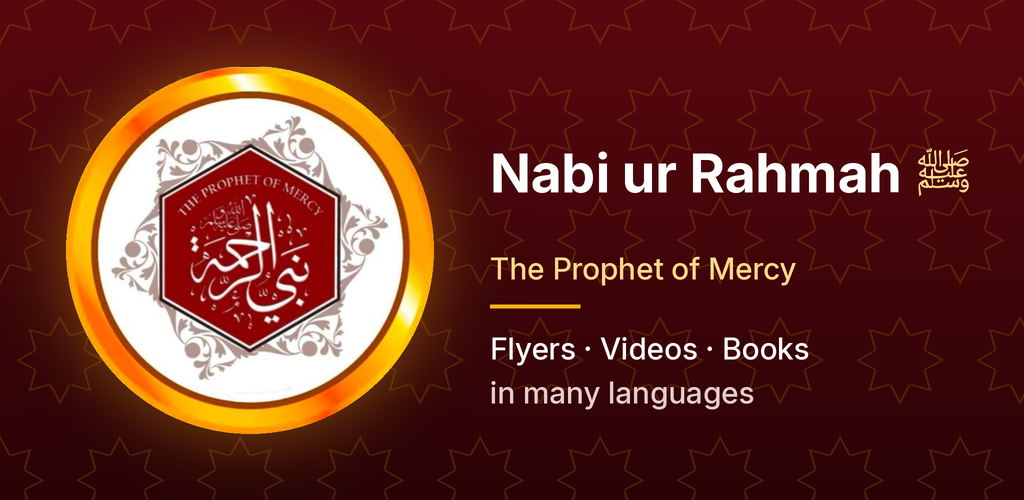
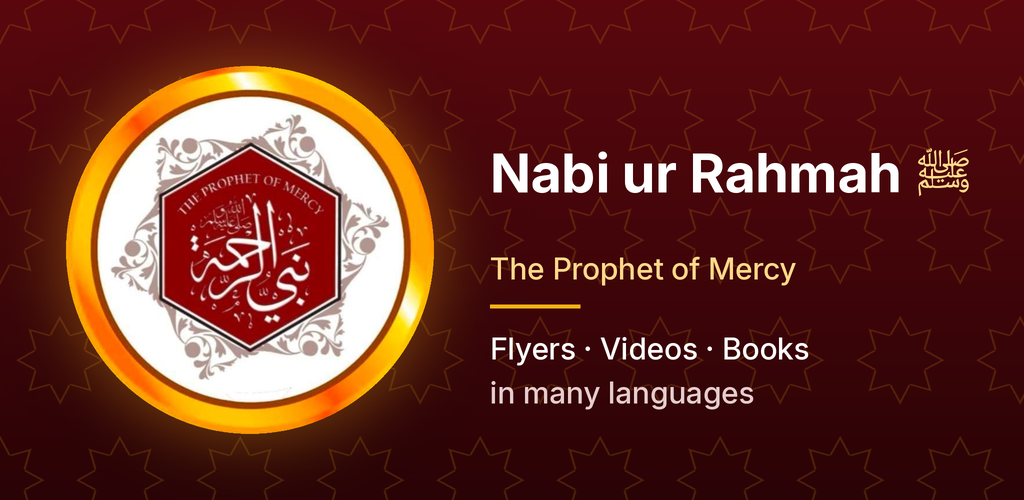
Sharper emblem, safer book downloads, upright Shorts everywhere
- The Nabi ur Rahmah emblem is now 637 px (was 384), cut into a clean
  circle without the dark strip along its top edge; the Play icon and
  feature graphic are redrawn from it.
- A book download that stops early, or returns something other than a
  PDF, is discarded and can be retried, instead of being kept as a book
  that never opens.
- Shorts keep their upright shape in the floating window and in full
  screen, instead of a narrow letterboxed strip.

Claude-Session: https://claude.ai/code/session_01Jd4Wban1LcRuPzEVww8pUp

diff --git a/mobile_app/NabiUrRahmahApp/app/src/main/kotlin/org/darulhuda/nabiurrahmah/ui/videos/VideoScreen.kt b/mobile_app/NabiUrRahmahApp/app/src/main/kotlin/org/darulhuda/nabiurrahmah/ui/videos/VideoScreen.kt
@@ -39,6 +39,7 @@ import androidx.compose.material3.Text
 import androidx.compose.material3.TopAppBar
 import androidx.compose.runtime.Composable
 import androidx.compose.runtime.DisposableEffect
+import androidx.compose.runtime.SideEffect
 import androidx.compose.runtime.getValue
 import androidx.compose.runtime.mutableStateOf
 import androidx.compose.runtime.remember
@@ -91,6 +92,8 @@ fun VideoScreen(
         pictureInPicture.wanted = true
         onDispose { pictureInPicture.wanted = false }
     }
+    val portrait = current?.isShort == true
+    SideEffect { pictureInPicture.portrait = portrait }
     val compact = pictureInPicture.active
 
     Box(Modifier.fillMaxSize()) {
@@ -135,7 +138,7 @@ fun VideoScreen(
         }
 
         fullscreen?.let { session ->
-            FullscreenVideo(session, Modifier.zIndex(1f))
+            FullscreenVideo(session, portrait = portrait, modifier = Modifier.zIndex(1f))
         }
     }
 }
@@ -252,13 +255,14 @@ private fun EmbedBlocked(onWatch: () -> Unit) {
     }
 }
 
-/** Landscape, edge to edge, system bars hidden; back leaves full screen first. */
+/** Edge to edge with system bars hidden: landscape for wide videos, upright for Shorts. Back leaves full screen first. */
 @Composable
-private fun FullscreenVideo(session: FullscreenSession, modifier: Modifier = Modifier) {
+private fun FullscreenVideo(session: FullscreenSession, portrait: Boolean, modifier: Modifier = Modifier) {
     val activity = LocalActivity.current
-    DisposableEffect(activity) {
+    DisposableEffect(activity, portrait) {
         val previous = activity?.requestedOrientation ?: ActivityInfo.SCREEN_ORIENTATION_UNSPECIFIED
-        activity?.requestedOrientation = ActivityInfo.SCREEN_ORIENTATION_SENSOR_LANDSCAPE
+        activity?.requestedOrientation =
+            if (portrait) ActivityInfo.SCREEN_ORIENTATION_SENSOR_PORTRAIT else ActivityInfo.SCREEN_ORIENTATION_SENSOR_LANDSCAPE
         onDispose { activity?.requestedOrientation = previous }
     }
     ImmersiveSystemBars(barsVisible = false)

diff --git a/mobile_app/NabiUrRahmahApp/app/src/main/kotlin/org/darulhuda/nabiurrahmah/platform/BookDownloads.kt b/mobile_app/NabiUrRahmahApp/app/src/main/kotlin/org/darulhuda/nabiurrahmah/platform/BookDownloads.kt
@@ -111,9 +111,24 @@ class BookDownloads(
                 }
             }
         }
+        // Never keep a half or wrong file as a "downloaded" book: it would fail to open every time.
+        if (total != null && read != total) {
+            partial.delete()
+            throw IOException("Download of $url stopped at $read of $total bytes")
+        }
+        if (!partial.isPdf()) {
+            partial.delete()
+            throw IOException("$url is not a PDF")
+        }
         if (!partial.renameTo(target)) throw IOException("Could not store $target")
         active.update { it + (url to DownloadStatus.Downloaded(target)) }
         return target
+    }
+
+    private fun File.isPdf(): Boolean = inputStream().use { input ->
+        val head = ByteArray(1024)
+        val count = input.read(head).coerceAtLeast(0)
+        String(head, 0, count, Charsets.ISO_8859_1).contains("%PDF-")
     }
 
     private fun sha1(text: String): String =

diff --git a/mobile_app/NabiUrRahmahApp/app/src/main/kotlin/org/darulhuda/nabiurrahmah/MainActivity.kt b/mobile_app/NabiUrRahmahApp/app/src/main/kotlin/org/darulhuda/nabiurrahmah/MainActivity.kt
@@ -54,7 +54,7 @@ class MainActivity : ComponentActivity() {
         super.onUserLeaveHint()
         if (pictureInPicture.wanted && Build.VERSION.SDK_INT >= Build.VERSION_CODES.O && !isInPictureInPictureMode) {
             try {
-                enterPictureInPictureMode(PictureInPictureParams.Builder().setAspectRatio(Rational(16, 9)).build())
+                enterPictureInPictureMode(PictureInPictureParams.Builder().setAspectRatio(if (pictureInPicture.portrait) Rational(9, 16) else Rational(16, 9)).build())
             } catch (e: IllegalStateException) {
                 // Picture-in-picture is turned off for this app in system settings.
             }

diff --git a/mobile_app/NabiUrRahmahApp/app/src/main/kotlin/org/darulhuda/nabiurrahmah/platform/PictureInPicture.kt b/mobile_app/NabiUrRahmahApp/app/src/main/kotlin/org/darulhuda/nabiurrahmah/platform/PictureInPicture.kt
@@ -11,6 +11,9 @@ class PictureInPictureState {
     var wanted by mutableStateOf(false)
 
     var active by mutableStateOf(false)
+
+    /** Shorts are upright, so their floating window is too. */
+    var portrait by mutableStateOf(false)
 }
 
 val LocalPictureInPicture = staticCompositionLocalOf { PictureInPictureState() }
